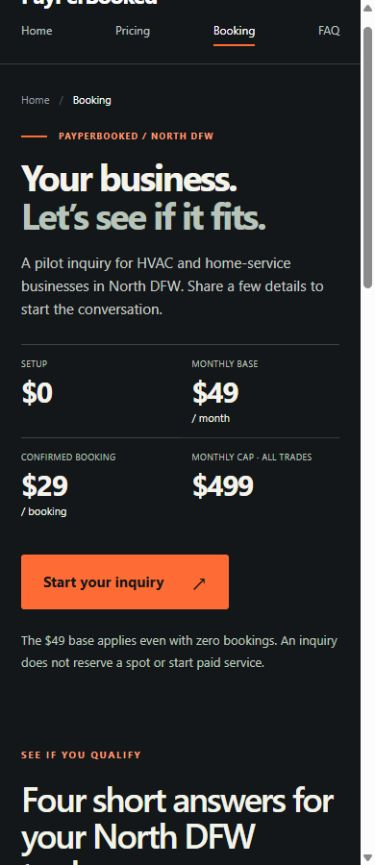
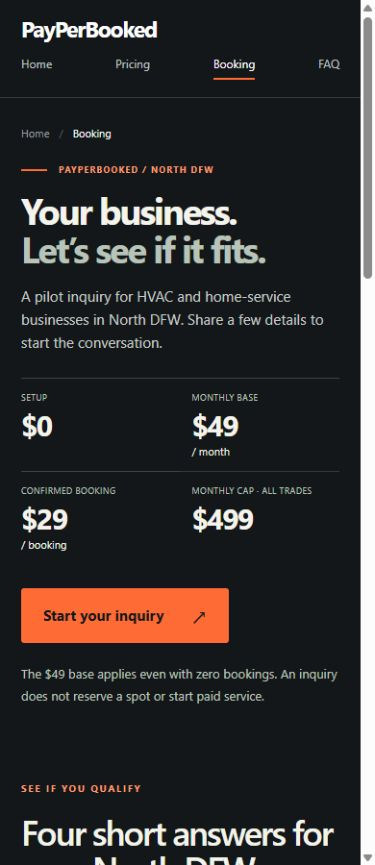
Fix mobile workflow link and complete local visual review evidence

diff --git a/payperbooked/base.css b/payperbooked/base.css
@@ -171,3 +171,5 @@ h3 { line-height:1.25; }
   .ppb-qualify .section-heading h2 { font-size:36px; }
 }
 .ppb-qualify { grid-template-columns:repeat(auto-fit,minmax(min(100%,340px),1fr)); }
+/* Override the shared mobile rule so the workflow link remains available. */
+.ppb-hero .hero-bottom > a { display:inline-flex; align-items:center; }

diff --git a/docs/payperbooked-visual-review.md b/docs/payperbooked-visual-review.md
@@ -54,6 +54,27 @@ These are local rendered screenshots of the draft, not production:
 
 ## Remaining decisions and launch gates
 
+### Mobile evidence follow-up
+
+Fresh local sessions verified home and booking at 320px and 390px with `scrollY=0`. In all four observations, the wordmark bounds were top 18px and bottom 41px; clipping was not reproduced. The four header captures were replaced or added. A restored accepted inquiry can focus its status panel and scroll the page, so top-of-page captures used a fresh session. The cause of the earlier image crop is not established. [Measurements](visual-review/mobile-top-check.json).
+
+The follow-up found a shared mobile CSS rule hiding the home workflow link. A PayPerBooked-only override in `payperbooked/base.css` restores that link. No shared NFM stylesheet or inquiry behavior changed.
+
+Additional local evidence at a 390px browser viewport (375px content width excluding the scrollbar):
+
+- [Complete mobile workflow](visual-review/workflow-mobile-390.jpg)
+- [Initial mobile form](visual-review/form-mobile-390.jpg)
+- [Mock failure with preserved answers and retry](visual-review/form-error-mobile-390.jpg)
+- [Mock acceptance after deliberate retry](visual-review/form-retry-accepted-mobile-390.jpg)
+- [Home footer clearance](visual-review/home-footer-mobile-390.jpg)
+- [Booking footer clearance](visual-review/booking-footer-mobile-390.jpg)
+- [Narrow booking header](visual-review/booking-320.jpg)
+- [Form and clearance measurements](visual-review/mobile-form-clearance.json)
+
+The failure/retry screenshots use synthetic example.test contact data and a loopback-only mock: first a retryable 503, then accepted 202. This is UI evidence, not provider acceptance or inbox receipt. No external message or production submission occurred. Both footer checks found no fixed overlays or horizontal overflow. Native 200% zoom remains unverified; no unavailable native controls were bypassed.
+
+### Release gates remain open
+
 1. Tony's premium/distinctive design review of this candidate; native 200% zoom and final accessibility/browser checks.
 2. Approved privacy/terms/SMS-policy content and accurate legal attribution. Existing /privacy, /terms and /sms-terms are absent; no invented policies are published here.
 3. Evidence for operational voice attachment, business/calendar rules, missed-call textback, campaign journey, callback ownership, onboarding and usage billing. A website inquiry is not operational booking or billing proof.
